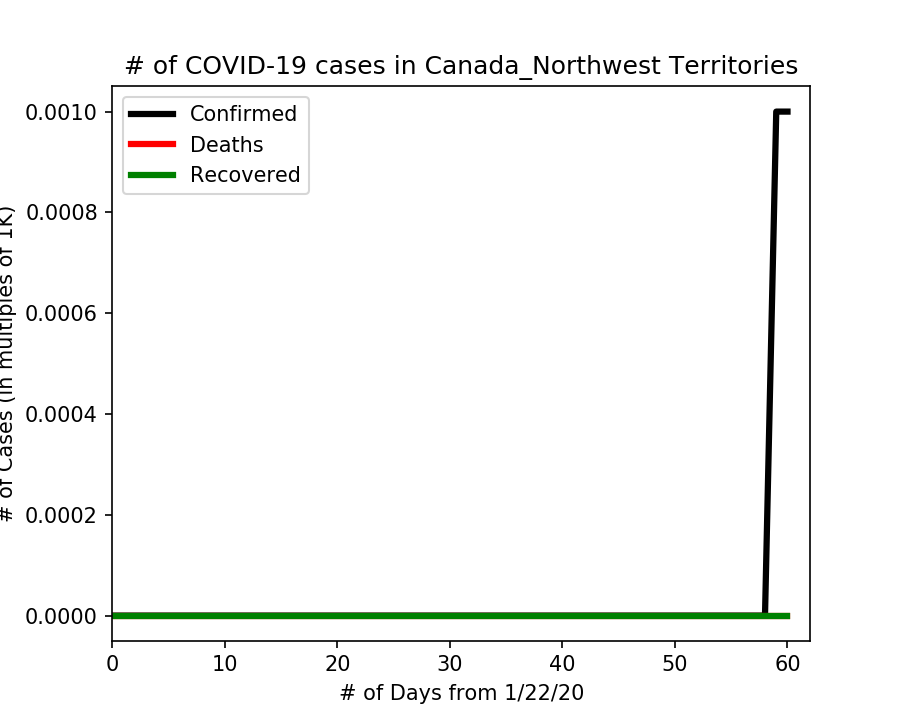
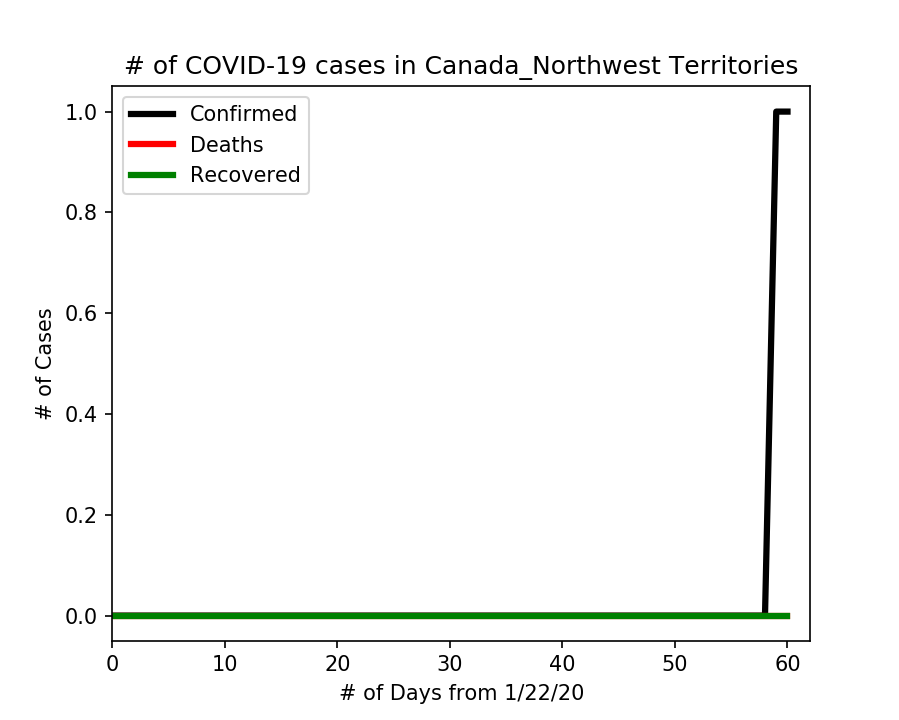
Pie charts

Changed region(s): [[0.0, 0.275, 0.1246, 0.7333], [0.0311, 0.825, 0.0934, 0.8861], [0.0311, 0.1222, 0.0934, 0.1833]]

diff --git a/covid19.py b/covid19.py
@@ -1,3 +1,25 @@
+# # Time-series data for COVID-19 cases
+#
+# Time-series data downloaded from:
+# Novel Coronavirus (COVID-19) Cases, provided by John Hopkins University CSSE github account.
+# All details regarding data are provided in the link below.
+# https://github.com/CSSEGISandData/COVID-19
+#
+# # Data extraction for COVID-19 cases
+# This script extracts data for confirmed cases, cases that resulted in deaths, and recovered cases for each country
+# and province, and writes data into a separate csv file.
+#
+# Visualization: Plots line plots for each country and province.
+# Pie charts: Plots pie chart for confirmed cases for countries with Province data.
+#
+# Directory structure:
+# Readme.md : This Readme file.
+# covid19.py : Main python script for processing data.
+# data: Folder with data from CSSE account.
+# csv_out: Folder with output csv files. Filename are Country_Province.csv
+# plots: generated plots from this script. Filename are Country_Province.csv
+# pie_chart: generated pie charts for countries with province/state data. Filename are Country.png
+
 import pandas as pd
 import matplotlib.pyplot as plt
 import os
@@ -7,17 +29,20 @@ plt.close('all')  # Close any existing plot
 Dpi = 150  # Pixel count for figures
 FlagFig = 1  # Flag for activating all figure flags
 if FlagFig == 0:
-    FlagFigWorld = FlagFigCountry = FlagFigProvince = 0  # Condition for not plotting any figure
+    FlagFigWorld = FlagFigCountry = FlagFigProvince = FlagPlotPie = 0  # Condition for not plotting any figure
 else:
     FlagFigCountry = 1  # flag for plotting Country
     FlagFigProvince = 1  # Flag for plotting Province
     FlagFigWorld = 1  # Flag for plotting World
+    FlagPlotPie = 1 # Flag for pie charts
 
 # Create plot directory, if it does not exist
 if not os.path.exists('./plots'):
     os.makedirs('./plots')
 if not os.path.exists('./csv_out'):
     os.makedirs('./csv_out')
+if not os.path.exists('./pie_chart'):
+    os.makedirs('./pie_chart')
 
 # Reading time series data. Data is in three separate files for confirmed cases, Cases that resulted in Deaths,
 # and cases that recovered
@@ -82,6 +107,12 @@ def get_province_data(data1, data2, data3, province_name, start_date_index):
 
 
 # ============================================
+# Extracting count from one dataseries
+def get_last_stat(data1, name):
+    return data1[data1['Country/Region'] == name].sum()[-1]
+
+
+# ============================================
 # Write data to csv files. One file will generated for each execution.
 # Format is: Rows=Cases; Columns=Date,Confirmed,Deaths,Recovered
 def write_data_csv(data1, data2, data3, name):
@@ -97,9 +128,10 @@ def write_data_csv(data1, data2, data3, name):
 
 # ============================================
 # Visualization: plotting all three cases in a single plot.
+# plot_fig(confirmed_data, death_data, Recovered_data, country/province_name, save_option)
 def plot_fig(data1, data2, data3, name, save_option):
     plt.figure(figsize=plt.figaspect(0.8), dpi=Dpi)
-    norm = 1000.0
+    norm = 1
     # Let's calculate number of days from 22 Jan 2020 (First date in this dataset) = len(data1)
     # It is assuming that dataset was updated everyday and it has record for each date.
     plt.plot(range(len(data1)), data1 / norm, '-k', Linewidth=3, label='Confirmed')
@@ -107,7 +139,8 @@ def plot_fig(data1, data2, data3, name, save_option):
     plt.plot(range(len(data3)), data3 / norm, '-g', Linewidth=3, label='Recovered')
     plt.xlim([0, len(data1) + 1])
     plt.xlabel('# of Days from %s' % DataConfirmed.columns[IndexDate])
-    plt.ylabel('# of Cases (in multiples of %dK)' % int(norm / 1000))
+    # plt.ylabel('# of Cases (in multiples of %dK)' % int(norm / 1000))
+    plt.ylabel('# of Cases')
     plt.title('# of COVID-19 cases in %s' % name)
     plt.legend(loc='best')
     if save_option == 1:
@@ -117,6 +150,43 @@ def plot_fig(data1, data2, data3, name, save_option):
 
         filename = name + '.png'
         plt.savefig("./plots/" + filename)  # FIle saving
+    plt.close()  # Had to use this in iPython. Number of graphs in memory exploded. Will search for some better method.
+    return 0
+
+
+# ============================================
+# Visualization: plotting Pie chart for a single country based on Provinces.
+# Following functions also filters data based on percentage threshold. In general, provinces with less cases are adding
+# to improper labelling. Values less than threshold are added to give a new label 'Others'.
+# We created a pandas dataframe from x_values and labels, sorted them and put a percentage threshold on data.
+# Final data is plotted as pie chart.
+# plot_pie_chart(cases, province_name, country_name, percentage_threshold, save_option)
+def plot_pie_chart(cases, label_name, name, pcon, save_option):
+
+    # Open a canvas with DotspPerInch Dpi.
+    plt.figure(figsize=plt.figaspect(0.8), dpi=Dpi)
+    xval = pd.Series(cases)  # x_values converted to Series
+    label = pd.Series(label_name)  # labels converted to Series
+    piedata = pd.concat([xval, label], axis=1)  # Pandas dataframe created
+    piedata.columns = ['Case', 'Province']  # dataframe headers
+    piedata = piedata.sort_values(by='Case', ascending=False).reset_index()  # Sorted data in descending order
+    pie_pc = 100 * (piedata['Case'] / (piedata['Case'].sum()))  # Created percentage data
+    ind = pie_pc[pie_pc > pcon].index[-1]  # 5 percent condition
+    xval = piedata['Case'][:ind + 1]  # x_values filtered for top high percentages
+    xval[ind + 1] = piedata['Case'][ind + 1:].sum().sum()  # Sum of remaining values added
+    label = piedata['Province'][:ind + 1]   # label value filtered
+    label[ind + 1] = "Others"  # last label created
+
+    plt.pie(xval, labels=label, autopct='%1.2f%%')
+    plt.title('Percent of %d COVID-19 cases in %s' % (get_last_stat(DataConfirmed, name), name))
+    # plt.legend(loc='best')
+    if save_option == 1:
+        name = name.replace("*", "")  # added because some names has * in their name
+        name = name.replace(",", "")  # added because some names has , in their name
+        name = name.replace(" ", "_")  # added because some names has space in their name
+
+        filename = name + '.png'
+        plt.savefig("./pie_chart/" + filename)  # FIle saving
     plt.close()  # Had to use this in iPython. Number of graphs in memory exploded. Will search for some better method.
     return 0
 
@@ -139,14 +209,13 @@ print('Time taken for processing world data %0.3f seconds.' % (end_time - start_
 CaseThreshold = 100  # Select countries if this number of cases occurred on last date of data
 CountryList = DataConfirmed[DataConfirmed[LastDate] > CaseThreshold]['Country/Region'].value_counts().index
 print('\nNumber of countries with more than %d cases is %d. \n' % (CaseThreshold, len(CountryList)))
-# CountryList = ["Canada", "US"]  # Adding individual countries of interest
+# CountryList = ["Canada"]  # Adding individual countries of interest
 # CountryList = DataConfirmed['Country/Region'].value_counts().index  # Calculates full country list
 
 start_time = timer()
 for Country in CountryList:
     start_time_ind = timer()
-    CountryConfirmed, CountryDeaths, CountryRecovered = get_country_data(DataConfirmed, DataDeaths, DataRecovered,
-                                                                         Country, IndexDate)
+    CountryConfirmed, CountryDeaths, CountryRecovered = get_country_data(DataConfirmed, DataDeaths, DataRecovered, Country, IndexDate)
     FileName = Country
     write_data_csv(CountryConfirmed, CountryDeaths, CountryRecovered, FileName)
     if FlagFigCountry == 1:
@@ -163,18 +232,25 @@ for Country in CountryList:
     start_time_ind = timer()
     ProvinceList = DataConfirmed[DataConfirmed['Country/Region'] == Country]['Province/State']
     ProvinceList = ProvinceList.dropna()
+    PieLabels = ProvinceList.to_numpy()
+    PieX = []
     for Province in ProvinceList:
-        ProvinceConfirmed, ProvinceDeaths, ProvinceRecovered = get_province_data(DataConfirmed, DataDeaths,
-                                                                                 DataRecovered, Province, IndexDate)
+        ProvinceConfirmed, ProvinceDeaths, ProvinceRecovered = get_province_data(DataConfirmed, DataDeaths, DataRecovered, Province, IndexDate)
+        PieX.append(ProvinceConfirmed[-1])
         FileName = Country + '_' + Province
         write_data_csv(ProvinceConfirmed, ProvinceDeaths, ProvinceRecovered, FileName)
         if FlagFigProvince == 1:
             plot_fig(ProvinceConfirmed, ProvinceDeaths, ProvinceRecovered, FileName, 1)
-
         end_time_ind = timer()
+        # Print output
         print("Province:%s, Confirmed:%d, Deaths:%d, Recovered:%d, Processing time:%0.3f s. "
               % (FileName, ProvinceConfirmed[-1], ProvinceDeaths[-1], ProvinceRecovered[-1],
                  (end_time_ind - start_time_ind)))
+    # Plot Pie charts now
+    if FlagPlotPie == 1:
+        if PieX:
+            # plot_pie_chart(xdata, labels, country_name, percent_threshold, save_fig)
+            plot_pie_chart(PieX, PieLabels, Country, 2, 1)
 
 end_time = timer()
 # ============================================

diff --git a/Readme.md b/Readme.md
@@ -7,8 +7,10 @@ https://github.com/CSSEGISandData/COVID-19
 
 # Data extraction for COVID-19 cases
 This script extracts data for confirmed cases, cases that resulted in deaths, and recovered cases for each country 
-and province, and writes data into a separate csv file. It also plots this data for visualization.  
-Further analysis pending.
+and province, and writes data into a separate csv file.   
+
+Visualization: Plots line plots for each country and province.  
+Pie charts: Plots pie chart for countries with Province data.  
 
 Directory structure:  
 Readme.md : This Readme file.  
@@ -16,4 +18,4 @@ covid19.py : Main python script for processing data.
 data: Folder with data from CSSE account.  
 csv_out: Folder with output csv files. Filename are Country_Province.csv  
 plots: generated plots from this script. Filename are Country_Province.csv  
-
+pie_chart: generated pie charts for countries with province/state data. Filename are Country.png
